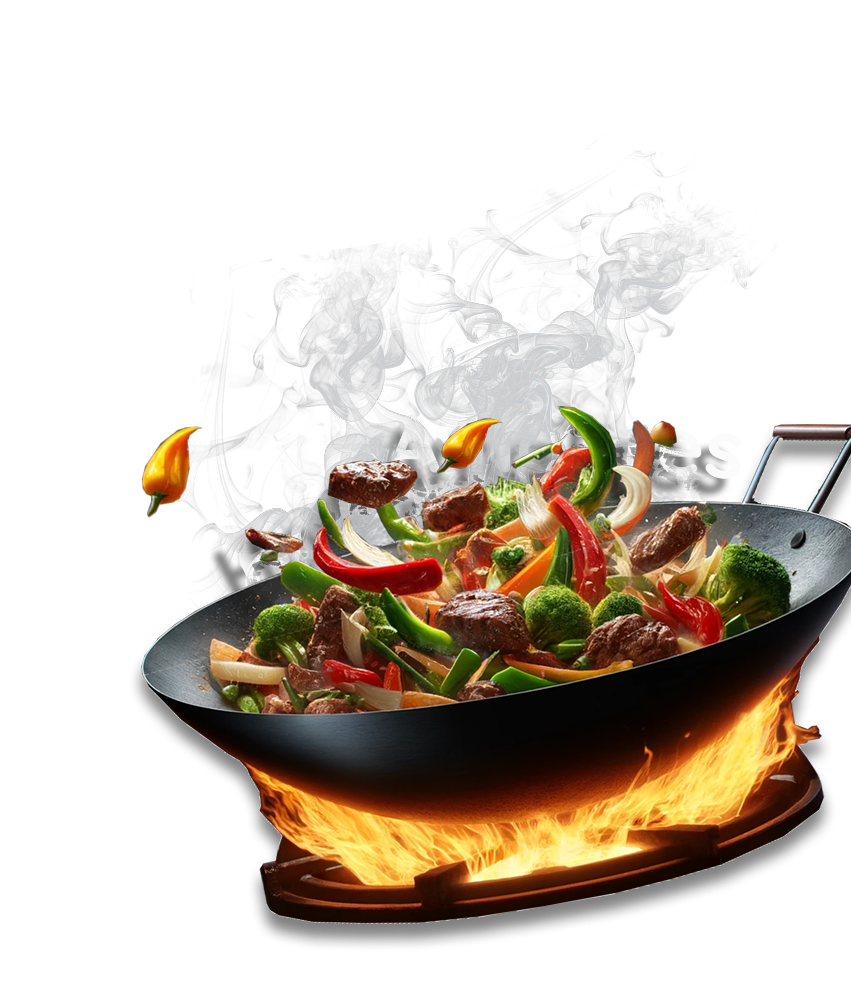
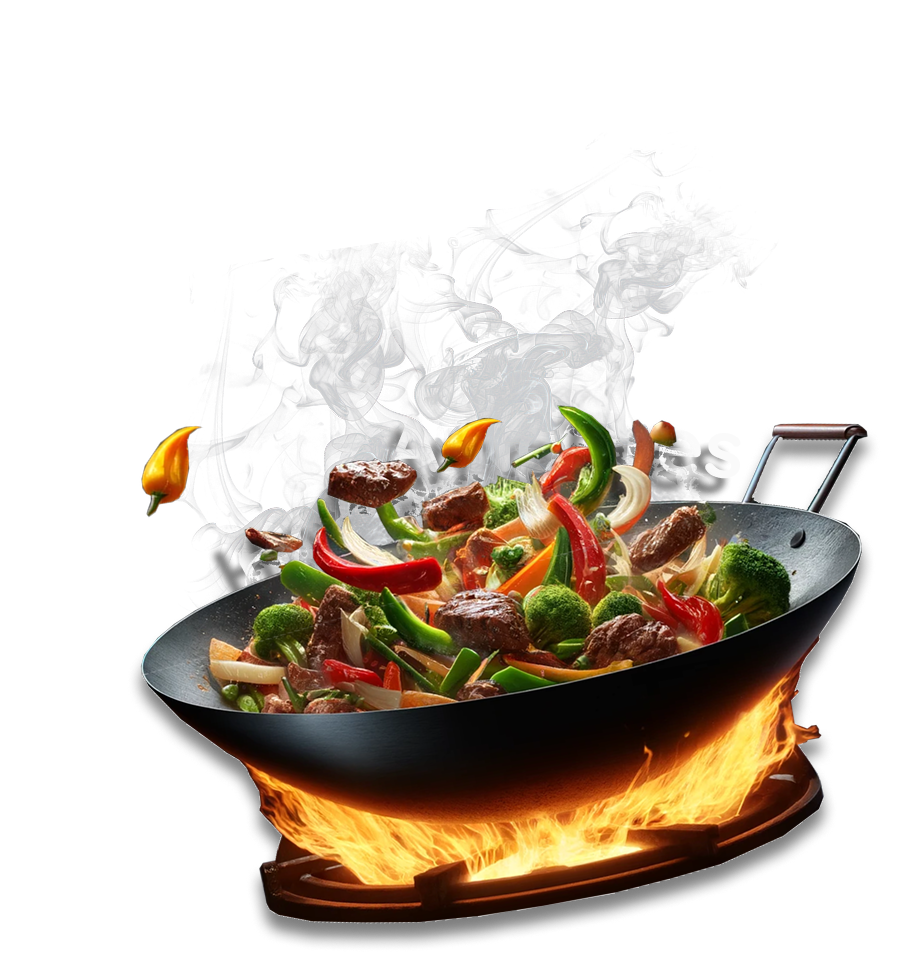
working on hero section

Changed region(s): [[0.1528, 0.2143, 1.0, 0.9796], [0.1528, 0.4286, 0.2444, 0.5204], [0.5499, 0.2449, 0.5805, 0.2755]]

diff --git a/east-feast-site/src/components/sections/HeroSection.tsx b/east-feast-site/src/components/sections/HeroSection.tsx
@@ -3,20 +3,58 @@ import Image from 'next/image';
 import { withBasePath } from '@/utils/withBasePath';
 
 const HeroSection: React.FC = () => (
-    <section id="section1" className="min-h-[500px] md:min-h-[750px] max-h-[1000px] flex flex-col justify-center items-center bg-background px-6">
-        <div className='w-full h-full flex justify-center items-center '>
-
+    <section
+        id="section1"
+        className="min-h-[500px] md:min-h-[750px] max-h-[1000px] w-full overflow-x-hidden flex flex-col justify-start items-center bg-background px-6"
+    >
+        <div className="w-full h-full flex justify-start items-center max-w-[1080px]">
             {/* Hero section */}
-            <div className='flex-5'>
-                <h1 className="text-4xl font-bold mb-4">Experience <span className='text-prime'>Asian</span> <br /> dining like no other <br /> with <span className='text-gradient'>EastFeast</span></h1>
-                <p className="text-lg text-gray-700 max-w-2xl text-center">
-                    Your perfect partner for delicious catering services.
+            <div className=" flex-4 relative z-10 mt-20 max-w-[1080px] flex flex-col justify-start">
+                <h1
+                    className="font-bold mb-4"
+                    style={{ fontSize: 'clamp(16px, 4vw, 30px)' }}
+                >
+                    Experience <span className="text-prime">Asian</span>
+                    <br /> dining like no other
+                    <br /> with <span className="text-gradient">EastFeast</span>
+                </h1>
+                <p
+                    className="text-gray-700 max-w-2xl mx-auto "
+                    style={{ fontSize: 'clamp(1rem, 2.5vw, 1.5rem)' }}
+                >
+                    At EastFeast Catering we focus on <br />
+                    providing you with the best Asian <br />
+                    dining experience, catered <br />
+                    to your personal wishes.
                 </p>
+                <div className="flex justify-start items-center mt-6 space-y-4 sm:space-y-0 sm:space-x-4">
+                    <button
+                        type="button"
+                        className="text-white bg-gradient-to-br from-prime to-second hover:bg-gradient-to-bl font-medium rounded-lg text-sm px-5 py-2.5 transition-all duration-300"
+                    >
+                        Reserve
+                    </button>
+                    <button
+                        type="button"
+                        className="relative inline-flex items-center justify-center p-0.5 overflow-hidden text-sm font-medium text-gray-900 rounded-lg group bg-gradient-to-br from-pink-500 to-orange-400 hover:text-white focus:ring-4 focus:outline-none focus:ring-pink-200 dark:focus:ring-pink-800"
+                    >
+                        <span className="relative px-5 py-2.5 transition-all ease-in duration-75 bg-white dark:bg-background dark:text-prime rounded-md group-hover:bg-transparent group-hover:dark:bg-transparent">
+                            Services
+                        </span>
+                    </button>
+                </div>
             </div>
 
             {/* Image section */}
-            <div className='flex-5 absolute'>
-                <Image src={withBasePath('/wok.png')} alt="wok image" width={500} height={500} className='cursor-pointer' />
+            <div className=" z-0 right-0">
+                <Image
+                    src={withBasePath('/wok.png')}
+                    alt="wok image"
+                    width={300}
+                    height={300}
+                    layout="responsive"
+                    className="cursor-pointer max-w-[800px] min-w-[250px]"
+                />
             </div>
         </div>
     </section>

diff --git a/east-feast-site/src/styles/globals.css b/east-feast-site/src/styles/globals.css
@@ -10,7 +10,7 @@
 }
 
 * {
-  scroll-behavior: smooth
+  scroll-behavior: smooth;
 }
 
 
